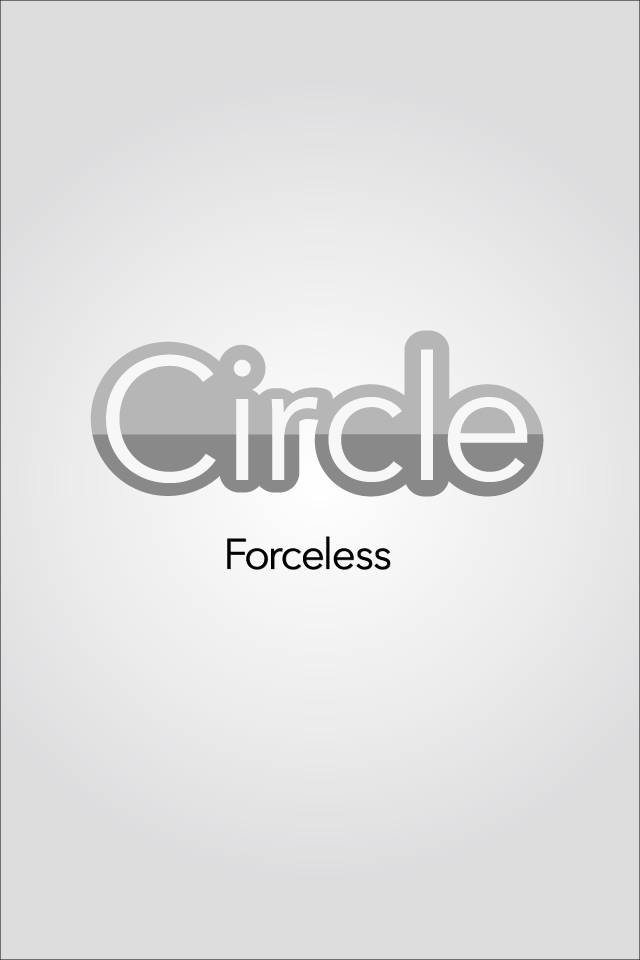
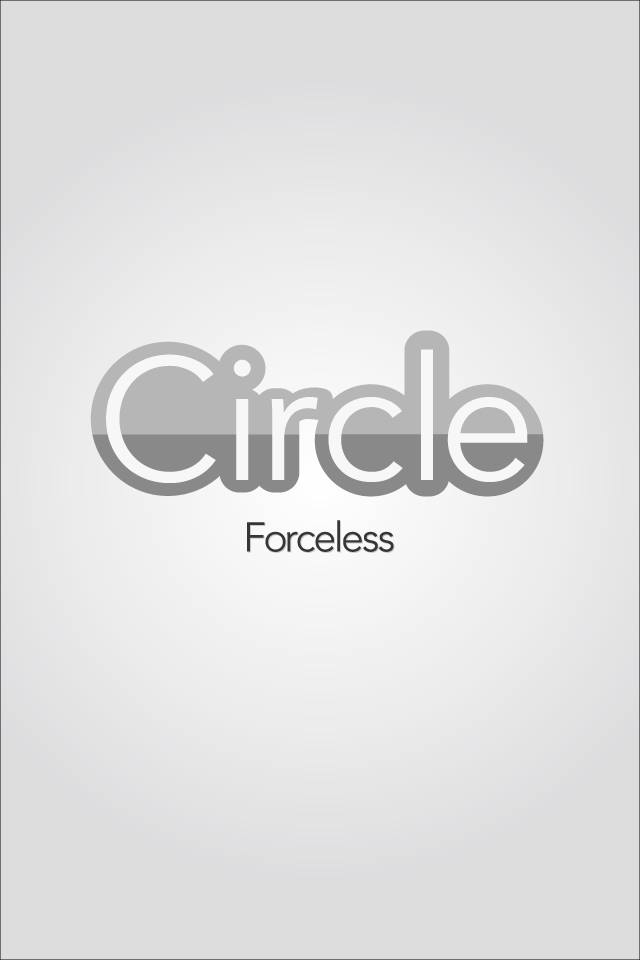
Splash added

Changed region(s): [[0.3438, 0.5312, 0.625, 0.5938]]

diff --git a/CircleMusic/CMViewController.m b/CircleMusic/CMViewController.m
@@ -7,6 +7,7 @@
 //
 
 #import "CMViewController.h"
+#import "CMAppDelegate.h"
 #define TIMER 0.05f
 
 #define SCROLL_SPEED 1.0
@@ -31,15 +32,43 @@
     
 }
 
+//http://blog.yabasoft.biz/archives/2982 をするので
+- (void)fadeSplashScreen {
+    UIImage *img;
+    CMAppDelegate *ad=[[UIApplication sharedApplication] delegate];
+    NSLog(@"Splash:%d",ad.iOStype);
+    UIImageView *imageview;
+    if(ad.iOStype==2){
+        img = [UIImage imageNamed:@"Default@2x.png"];
+        CGRect r=CGRectMake(0, -20, 320,480);
+        imageview =
+        [[UIImageView alloc] initWithFrame:r];
+        imageview.image = img;
+    }else{
+        img = [UIImage imageNamed:@"Default-568h@2x.png"];
+        imageview =
+        [[UIImageView alloc] initWithFrame:self.view.frame];
+        imageview.image = img;
+    }
+    
+
+    [self.view addSubview:imageview];
+    
+    self.view.alpha = 1.0;
+    [UIView beginAnimations:nil context:nil];
+    [UIView setAnimationDuration:3.0];
+    imageview.alpha = 0.0;
+    
+    [UIView commitAnimations];
+}
+
 - (void)viewDidLoad
 {
     [super viewDidLoad];
-    
+  
 	// Do any additional setup after loading the view, typically from a nib.
     [self.navigationController setNavigationBarHidden:YES animated:NO];
-    
 
-    
     [NSThread detachNewThreadSelector:@selector(artistvcThread)
                              toTarget:self
                            withObject:nil];
@@ -266,7 +295,7 @@
             for(int i=0;i<[_views count];i++){
                 CMPlayerButtonView *view=_views[i];
                 
-           
+                
                 
                 
                 if(CGRectContainsPoint(view.frame, point)){
@@ -321,7 +350,7 @@
 - (void)handlePanGesture:(UIGestureRecognizer *)sender
 {
     if(!_isEnabled) return;
-        title_text.text=@"Circle";
+    title_text.text=@"Circle";
     [self resetControlButtons];
     return;
     
@@ -500,7 +529,7 @@
 
 -(void)resetControlButtons
 {
-
+    
     for(int i=0;i<[_views count];i++){
         _on[i]=NO;
         CMPlayerButtonView *view=_views[i];
@@ -608,7 +637,7 @@
 
 -(void)CMAlbumViewControllerDidFinishShowing:(CMAlbumViewController *)vc
 {
-        title_text.text=@"Circle";
+    title_text.text=@"Circle";
     [self updateCircle:0 WithRatio:1.0];
     _isEnabled=YES;
     [_progress_view removeFromSuperview];
@@ -624,21 +653,7 @@
     
 }
 
-//http://blog.yabasoft.biz/archives/2982 をするので
-- (void)fadeSplashScreen {
-    UIImage *img = [UIImage imageNamed:@"Default.png"];
-    UIImageView *imageview =
-    [[UIImageView alloc] initWithFrame:CGRectMake( 0 , 0.0, 320 , 480 )] ;
-    imageview.image = img;
-    [self.view addSubview:imageview];
-    
-    self.view.alpha = 1.0;
-    [UIView beginAnimations:nil context:nil];
-    [UIView setAnimationDuration:2.0];
-    imageview.alpha = 0.0;
 
-    [UIView commitAnimations];
-}
 
 - (void)didReceiveMemoryWarning
 {
